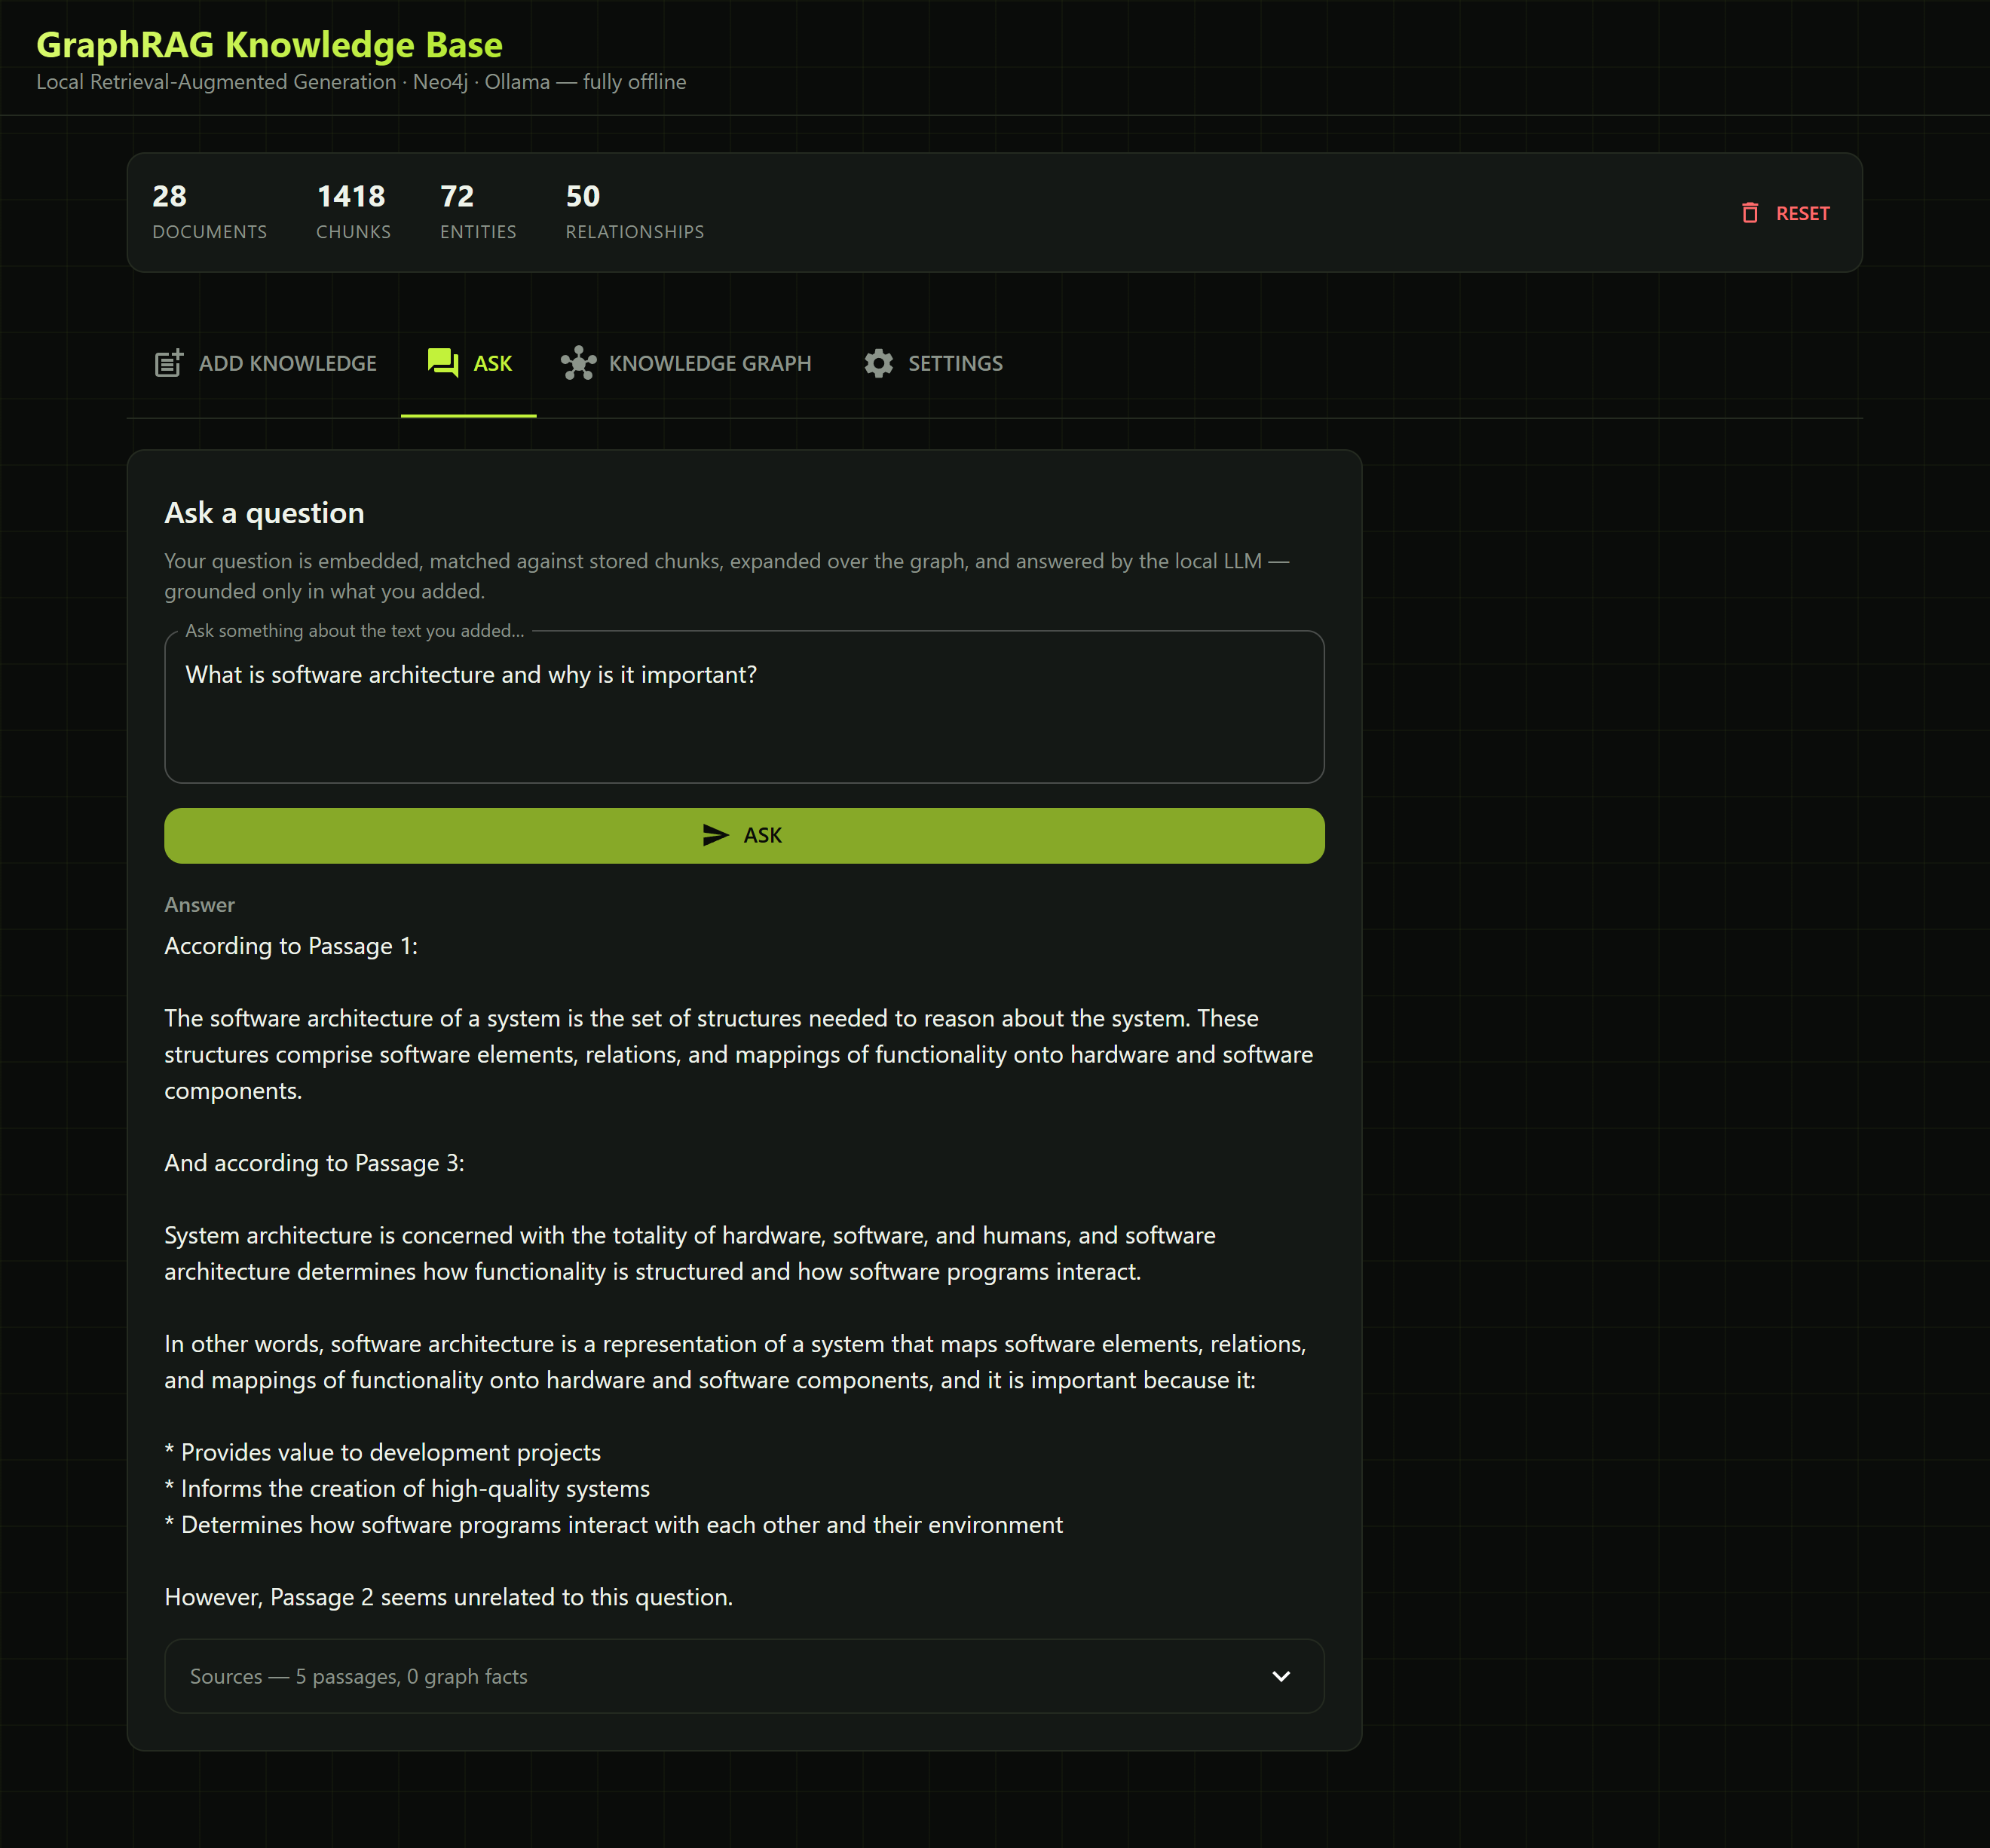
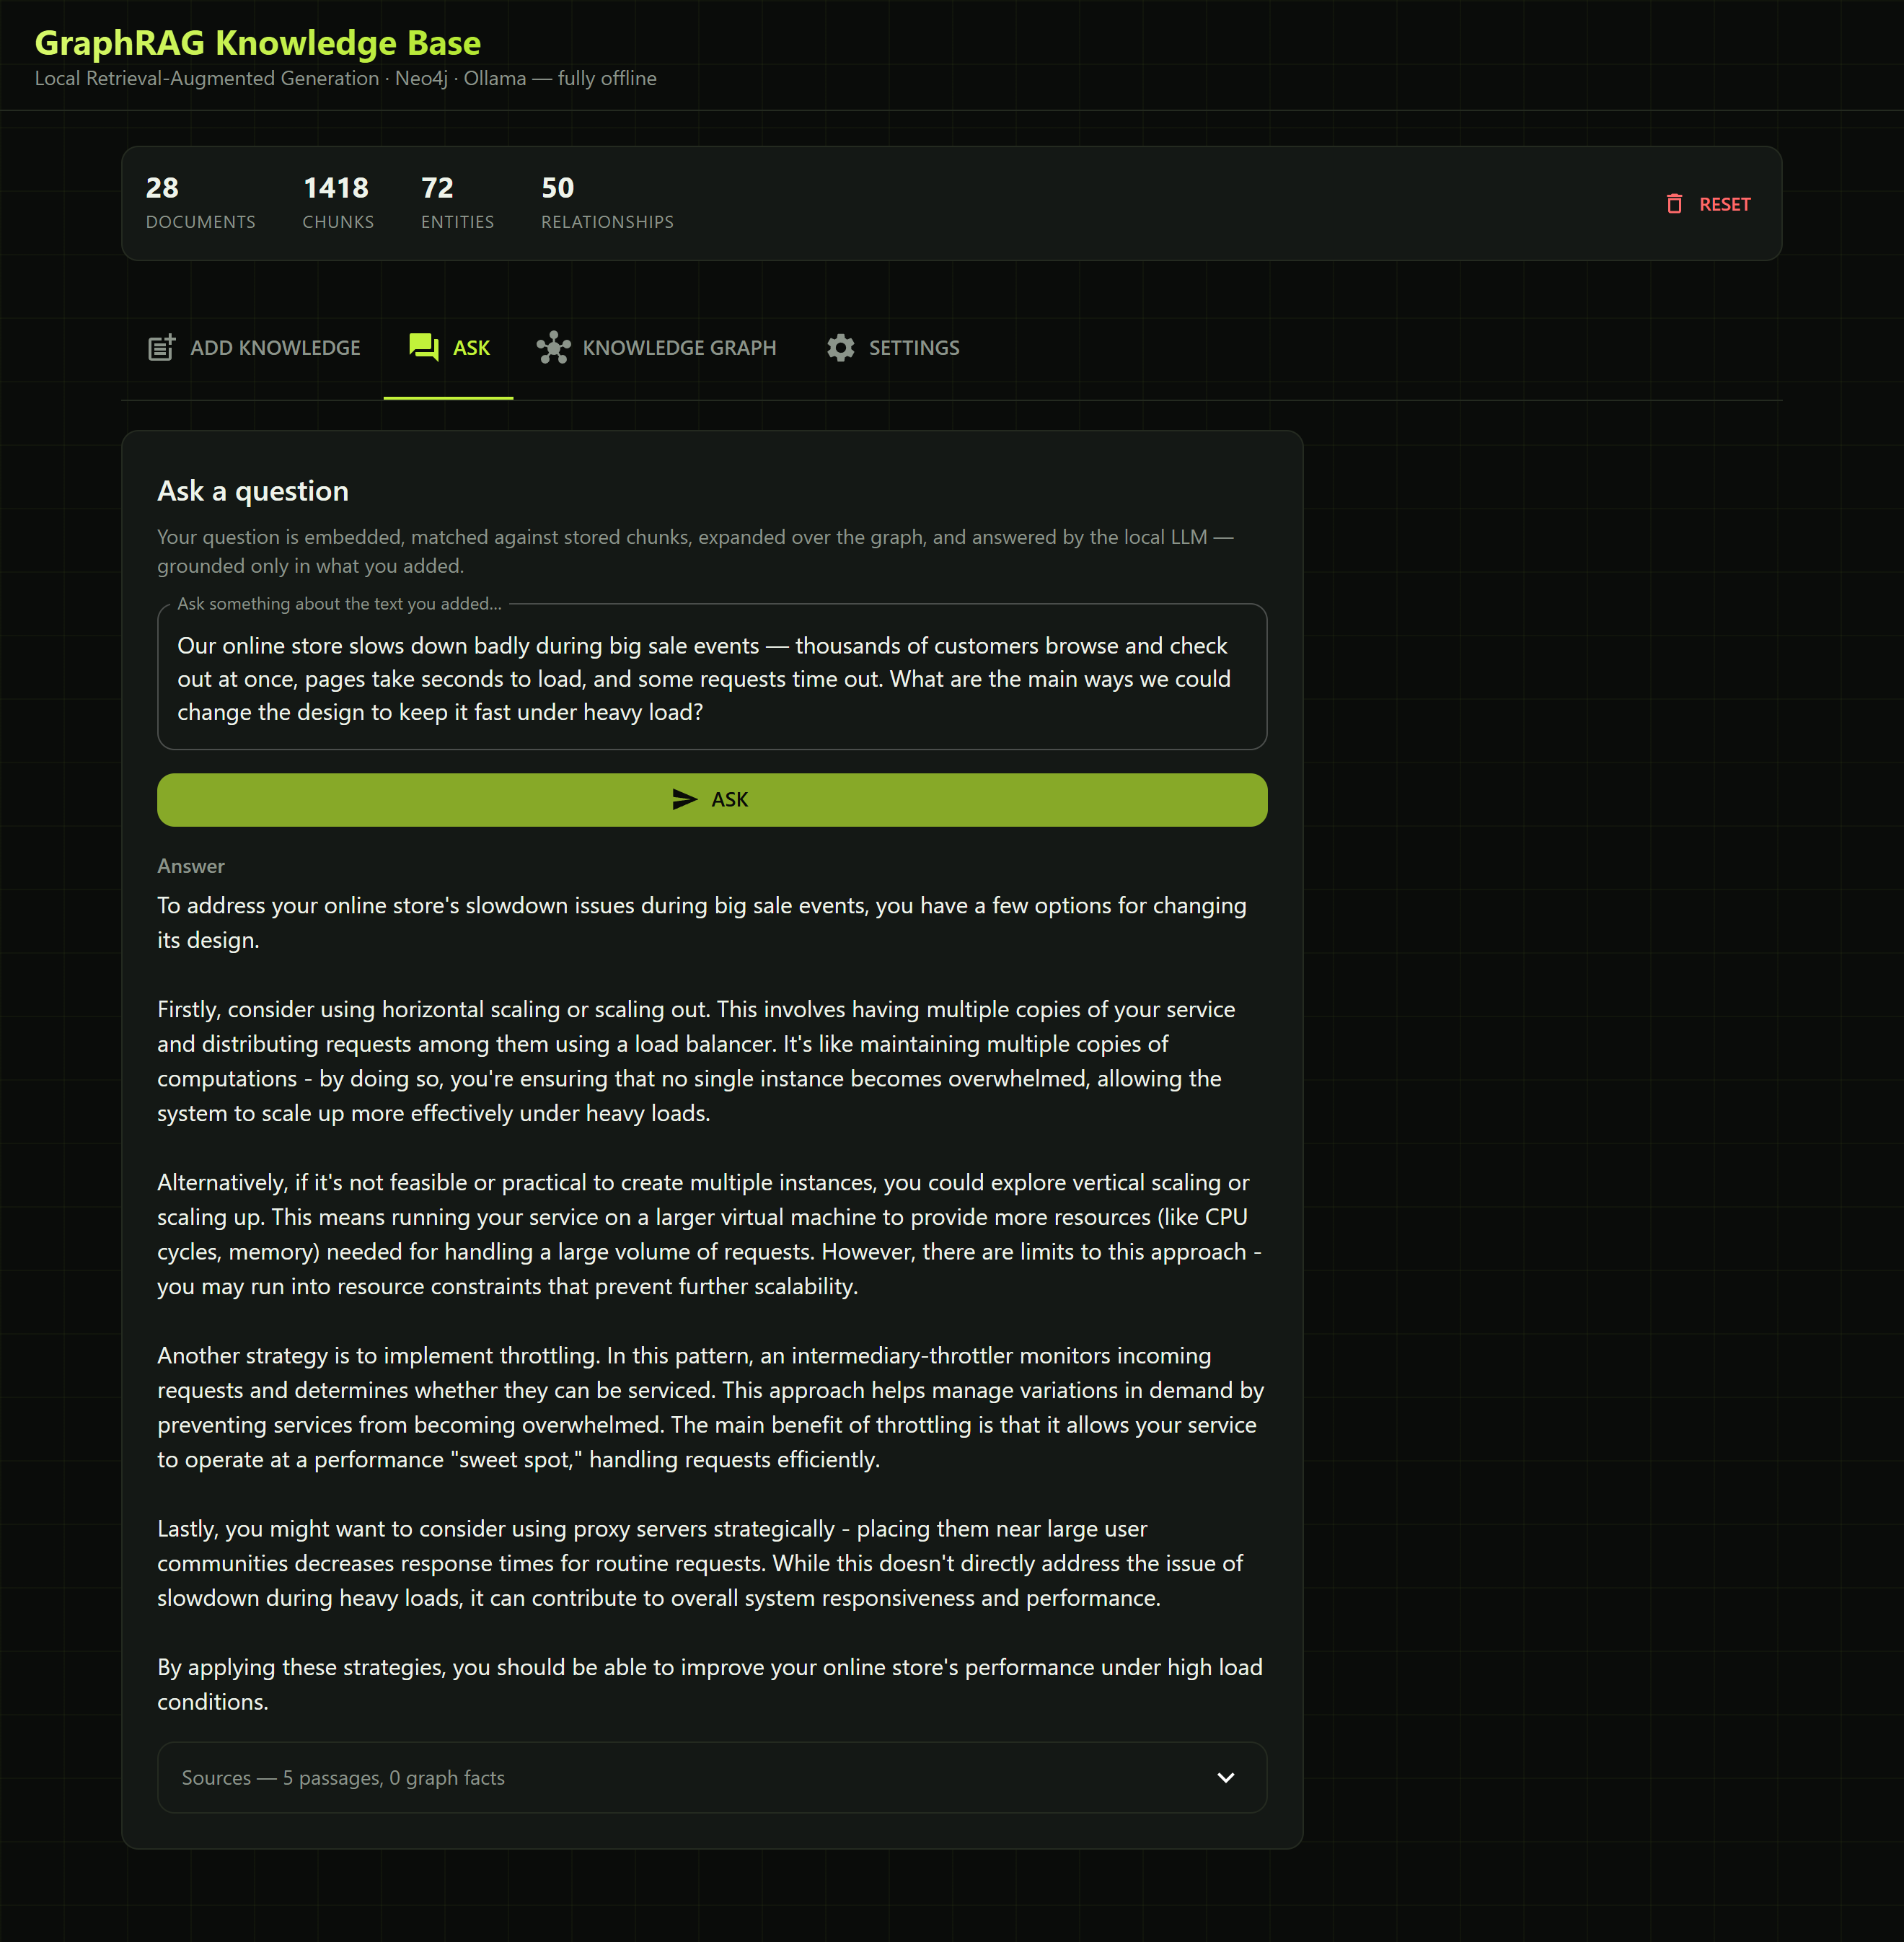
Make answers read naturally (no passage/source citations)
Rewrite the answer prompt so the LLM responds in a direct voice without referencing 'passages'/'sources' or passage numbers; refresh the Ask screenshot.

diff --git a/backend/app/application/prompts.py b/backend/app/application/prompts.py
@@ -44,19 +44,23 @@ def extraction_prompt(text: str) -> str:
 
 
 ANSWER_SYSTEM = (
-    "You are a helpful assistant that answers questions using ONLY the provided "
-    "context, which comes from the user's own knowledge base. "
-    "If the context does not contain the answer, say you don't have enough "
-    "information. Be concise and factual. Do not invent details."
+    "You answer questions using ONLY the information provided to you, which comes from "
+    "the user's own knowledge base. Write the answer in a natural, direct voice, as if "
+    "the knowledge were your own. Do NOT mention or cite 'the context', 'the passages', "
+    "'sources', 'background information', or any passage numbers, and do not say things "
+    "like 'based on the provided text'. If the information given does not answer the "
+    "question, say you don't have enough information. Be concise and factual, and never "
+    "invent details."
 )
 
 ANSWER_PROMPT_TEMPLATE = """\
-Answer the question using only the context below.
+Using only the information below, answer the question in a natural voice. Do not refer to
+this information as context, passages, or sources, and do not number or cite it.
 
-# Knowledge graph facts
+# Known facts
 {facts}
 
-# Retrieved passages
+# Reference notes
 {passages}
 
 # Question
@@ -73,9 +77,7 @@ def answer_prompt(question: str, context: RetrievalContext) -> str:
         facts = "(none)"
 
     if context.chunks:
-        passages = "\n\n".join(
-            f"[Passage {i + 1}] {chunk.text}" for i, chunk in enumerate(context.chunks)
-        )
+        passages = "\n\n".join(chunk.text for chunk in context.chunks)
     else:
         passages = "(none)"
 